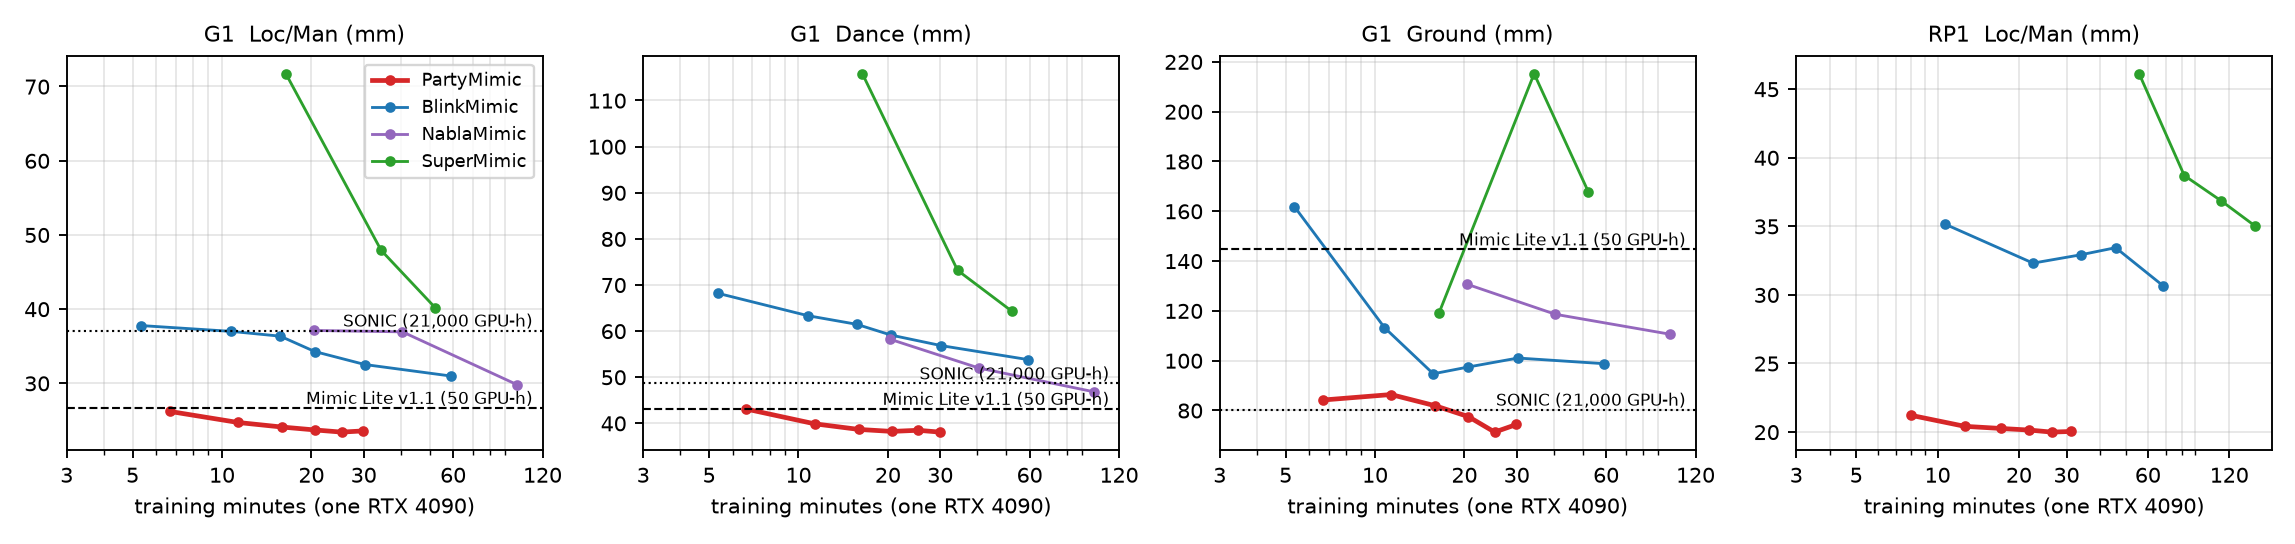
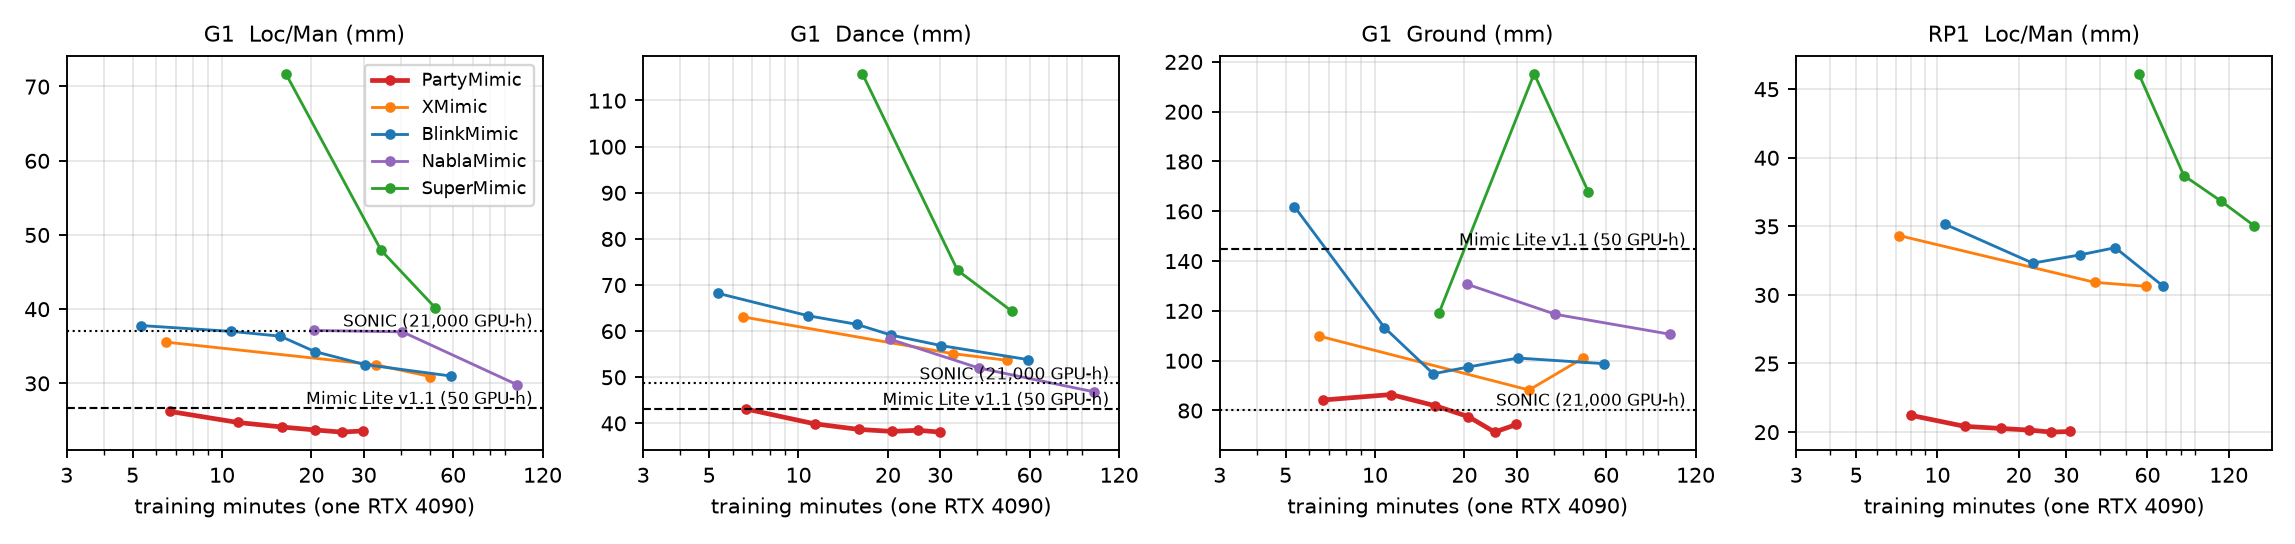
XMimic in the main comparison: G1 and RP1 on the 9,173-clip sets, figures and tables

diff --git a/docs/index.html b/docs/index.html
@@ -86,19 +86,21 @@
   <tr><td>SuperMimic (paper hyperparameters)</td><td class="n">52 min</td><td class="n">40.2</td><td class="n">40.5</td><td class="n">39.8</td><td class="n">64.3</td><td class="n">167.8</td></tr>
   <tr><td>NablaMimic (official config)</td><td class="n">99 min</td><td class="n">29.8</td><td class="n">32.2</td><td class="n">27.3</td><td class="n">46.8</td><td class="n">110.6</td></tr>
   <tr><td>BlinkMimic (main preset)</td><td class="n">59 min</td><td class="n">31.0</td><td class="n">31.9</td><td class="n">30.1</td><td class="n">53.8</td><td class="n">98.7</td></tr>
+  <tr><td>XMimic (BlinkMimic main in JAX, 1 GPU)</td><td class="n">50 min</td><td class="n">30.9</td><td class="n">31.8</td><td class="n">30.0</td><td class="n">53.7</td><td class="n">101.0</td></tr>
   <tr class="ours"><td>PartyMimic, 2,000 iterations</td><td class="n">6.7 min</td><td class="n">26.2</td><td class="n">29.3</td><td class="n">23.1</td><td class="n">43.1</td><td class="n">84.2</td></tr>
   <tr class="ours"><td>PartyMimic, 8,000 iterations</td><td class="n">21 min</td><td class="n">23.7</td><td class="n">26.1</td><td class="n">21.3</td><td class="n">38.2</td><td class="n">77.5</td></tr>
   <tr class="ours"><td>PartyMimic, 12,000 iterations</td><td class="n">30 min</td><td class="n">23.6</td><td class="n">25.5</td><td class="n">21.6</td><td class="n">38.1</td><td class="n">74.3</td></tr>
   <tr class="robot"><td colspan="7">RoboParty RP1 &middot; body position error (mm, lower is better)</td></tr>
   <tr><td>SuperMimic (paper hyperparameters)</td><td class="n">149 min</td><td class="n">35.0</td><td class="n">39.9</td><td class="n">30.2</td><td class="n">56.4</td><td class="n">158.4</td></tr>
   <tr><td>BlinkMimic (main preset)</td><td class="n">68 min</td><td class="n">30.7</td><td class="n">32.2</td><td class="n">29.1</td><td class="n">51.7</td><td class="n">126.0</td></tr>
+  <tr><td>XMimic (BlinkMimic main in JAX, 1 GPU)</td><td class="n">59 min</td><td class="n">30.6</td><td class="n">33.4</td><td class="n">27.9</td><td class="n">52.8</td><td class="n">126.7</td></tr>
   <tr class="ours"><td>PartyMimic, 2,000 iterations</td><td class="n">8.0 min</td><td class="n">21.2</td><td class="n">24.6</td><td class="n">17.8</td><td class="n">39.9</td><td class="n">115.7</td></tr>
   <tr class="ours"><td>PartyMimic, 8,000 iterations</td><td class="n">22 min</td><td class="n">20.1</td><td class="n">23.5</td><td class="n">16.8</td><td class="n">36.5</td><td class="n">101.8</td></tr>
   <tr class="ours"><td>PartyMimic, 12,000 iterations</td><td class="n">31 min</td><td class="n">20.0</td><td class="n">23.6</td><td class="n">16.5</td><td class="n">35.9</td><td class="n">103.6</td></tr>
 </table></div>
 <p class="note"><b>How these numbers were obtained.</b>
-  Every trained method (SuperMimic, NablaMimic, BlinkMimic, PartyMimic) was trained by us on the same machine. Each
-  run had one NVIDIA RTX 4090 (48 GB) to itself, with an i9-14900K, CUDA 12.8 and PyTorch 2.9.
+  Every trained method (SuperMimic, NablaMimic, BlinkMimic, XMimic, PartyMimic) was trained by us on the same machine. Each
+  run had one NVIDIA RTX 4090 (48 GB) to itself, with an i9-14900K, CUDA 12.8 and PyTorch 2.9 (XMimic: JAX 0.7.2).
   All methods used the same 9,173-clip training set: 9,133 BONES-SEED clips retargeted to G1 plus LAFAN1, 21.1 h at 50 Hz.
   RP1 used the same motions retargeted to RP1.
   Training time is the wall-clock time of training on one GPU, excluding export and evaluation.
@@ -112,6 +114,9 @@
   The table reports the local body position error. Loc/Man is the mean of the Loc and Man errors.
   PartyMimic rows are 2-seed means; seeds differ by 0.1&ndash;1.4 mm on Loc/Man and by 5&ndash;13 mm on Ground.
   Completion rates are given in the <a href="#completion">next table</a>.
+  XMimic ships only the G1 scene and LAFAN1 CSV clips; we added an npz clip loader and exported the G1 and RP1 scenes
+  from BlinkMimic with XMimic's own export tool (every model array matches mjlab's), and ran its defaults with BlinkMimic's
+  12,000 iterations and constraint capacity (<code>--njmax 500</code>). Its time includes its ahead-of-time compilation.
   SONIC and Mimic Lite v1.1 are the official leaderboard entries: different data and hardware, so their GPU-hours
   only indicate scale. They have no RP1 entries, and NablaMimic has no RP1 model.</p>
 
@@ -123,6 +128,7 @@
   <tr><td>SuperMimic</td><td class="n">100 / 100</td><td class="n">98.0</td><td class="n">80.0</td><td class="n">99.4 / 100</td><td class="n">98.1</td><td class="n">80.5</td></tr>
   <tr><td>NablaMimic</td><td class="n">99.3 / 100</td><td class="n">87.4</td><td class="n">82.3</td><td class="n">&ndash;</td><td class="n">&ndash;</td><td class="n">&ndash;</td></tr>
   <tr><td>BlinkMimic</td><td class="n">100 / 100</td><td class="n">96.7</td><td class="n">88.0</td><td class="n">100 / 100</td><td class="n">93.8</td><td class="n">87.8</td></tr>
+  <tr><td>XMimic</td><td class="n">99.7 / 100</td><td class="n">95.2</td><td class="n">86.6</td><td class="n">100 / 100</td><td class="n">97.6</td><td class="n">88.7</td></tr>
   <tr class="ours"><td>PartyMimic, 12,000 iterations</td><td class="n">99.8 / 98.7</td><td class="n">95.9</td><td class="n">93.4</td><td class="n">100 / 98.9</td><td class="n">94.2</td><td class="n">90.0</td></tr>
 </table></div>
 
@@ -136,7 +142,8 @@
 <p><a href="https://github.com/nico-bohlinger/xmimic">XMimic</a> rebuilds BlinkMimic's main recipe in JAX and reports
   BlinkMimic's LAFAN-40 target in 0.91 min on four H100s. We ran its 1-GPU and 2-GPU (AL) trainers, BlinkMimic main and
   PartyMimic on our two RTX 4090s, under XMimic's protocol, 3 seeds each. PartyMimic keeps its recipe unchanged; it was
-  not tuned for this benchmark.</p>
+  not tuned for this benchmark. On the 9,173-clip sets of the <a href="#results">results</a>, XMimic reproduces
+  BlinkMimic's errors (G1 30.9 vs 31.0 mm, RP1 30.6 vs 30.7 mm) in 15% less time.</p>
 <figure>
   <img src="static/lafan_speed.png" alt="LAFAN-40 evaluation return against training minutes and time to target">
 </figure>

diff --git a/README.md b/README.md
@@ -24,6 +24,7 @@ Loc and Man.
 | SuperMimic | 52 min | 40.2 | 40.5 | 39.8 | 64.3 | 167.8 |
 | NablaMimic | 99 min | 29.8 | 32.2 | 27.3 | 46.8 | 110.6 |
 | BlinkMimic | 59 min | 31.0 | 31.9 | 30.1 | 53.8 | 98.7 |
+| XMimic | 50 min | 30.9 | 31.8 | 30.0 | 53.7 | 101.0 |
 | **PartyMimic** (2k iterations) | **6.7 min** | 26.2 | 29.3 | 23.1 | 43.1 | 84.2 |
 | **PartyMimic** (12k iterations) | **30 min** | **23.6** | 25.5 | **21.6** | **38.1** | **74.3** |
 
@@ -31,11 +32,12 @@ Loc and Man.
 |---|---:|---:|---:|---:|---:|---:|
 | SuperMimic | 149 min | 35.0 | 39.9 | 30.2 | 56.4 | 158.4 |
 | BlinkMimic | 68 min | 30.7 | 32.2 | 29.1 | 51.7 | 126.0 |
+| XMimic | 59 min | 30.6 | 33.4 | 27.9 | 52.8 | 126.7 |
 | **PartyMimic** (2k iterations) | **8.0 min** | 21.2 | 24.6 | 17.8 | 39.9 | 115.7 |
 | **PartyMimic** (12k iterations) | **31 min** | **20.0** | **23.6** | **16.5** | **35.9** | **103.6** |
 
-<sub>SuperMimic (paper hyperparameters), NablaMimic (official config), BlinkMimic (main preset) and PartyMimic were
-all trained by us. Each run had one RTX 4090 to itself, and all used the same 9,173 clips (BONES-SEED + LAFAN1,
+<sub>SuperMimic (paper hyperparameters), NablaMimic (official config), BlinkMimic (main preset), XMimic (its defaults,
+BlinkMimic's 12k iterations; npz loader and RP1 scene added) and PartyMimic were all trained by us. Each run had one RTX 4090 to itself, and all used the same 9,173 clips (BONES-SEED + LAFAN1,
 retargeted per robot). Time is training wall-clock on one GPU. PartyMimic rows are 2-seed means.
 Test motions come from a different mocap source; no 1-s window lies within 0.059 rad RMS of the training set.
 SONIC and Mimic Lite are official leaderboard entries with different data and hardware. Full protocol and
@@ -71,6 +73,7 @@ XMimic's `exclude_compile.py` rule; the start-up column adds it back with warm c
 
 ![LAFAN-40 speed](docs/static/lafan_speed.png)
 
+On the 9,173-clip sets XMimic matches BlinkMimic's held-out error in 15% less time (tables above). On LAFAN-40,
 PartyMimic reaches return 0.82 in the fewest iterations and ends highest. It is slower to zero failures: one or two
 hard training clips keep failing for a while. BlinkMimic and XMimic search for those clips with evaluation probes;
 PartyMimic dropped the probes because they did not improve held-out tracking. On the second GPU's x1 PCIe link,
